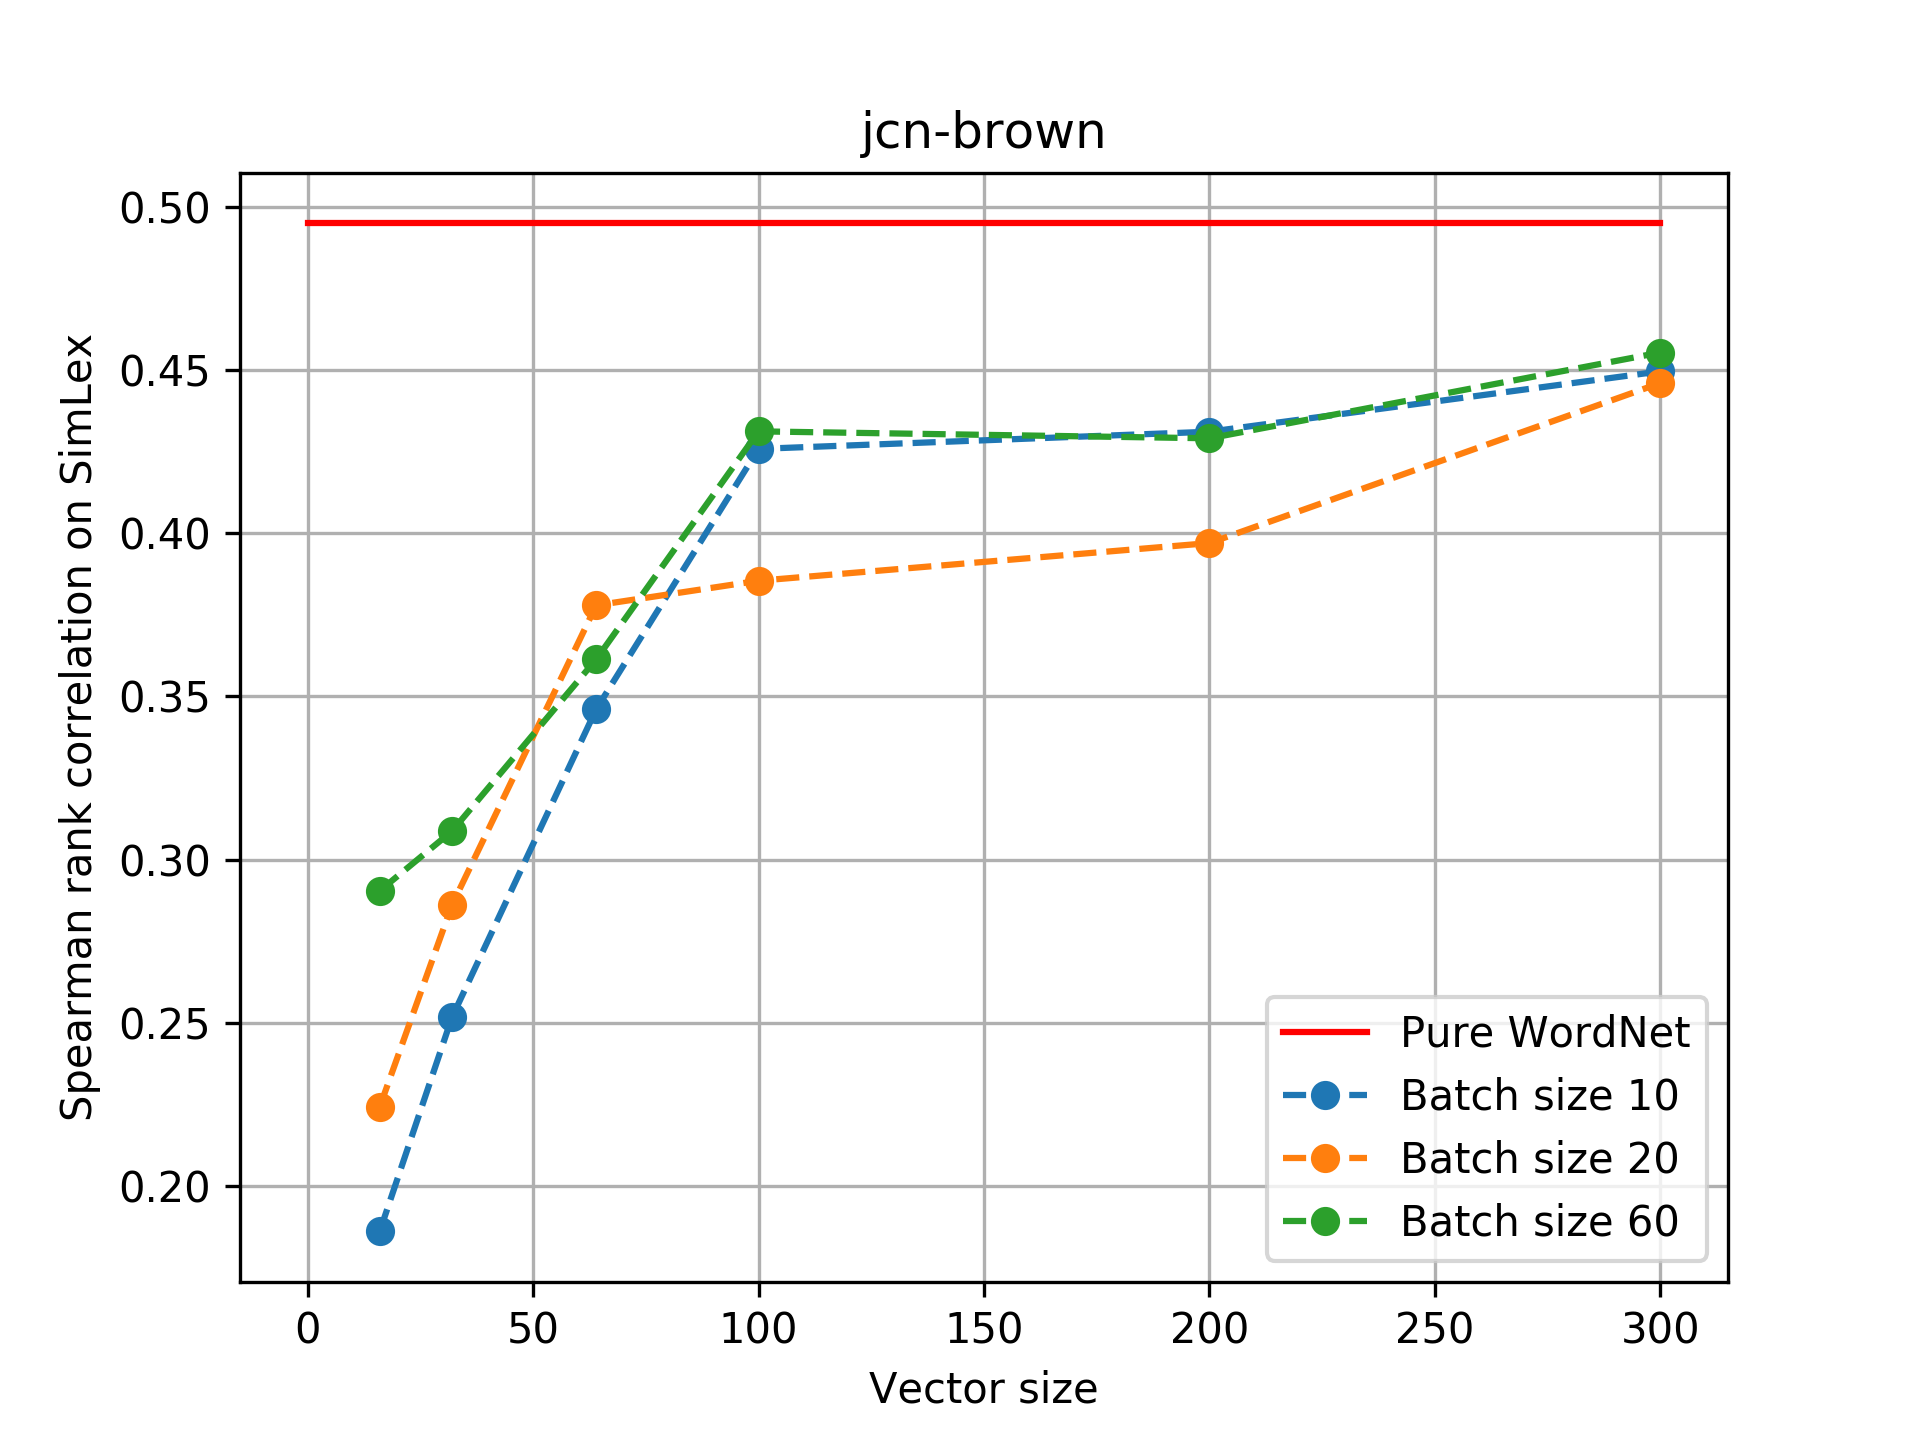
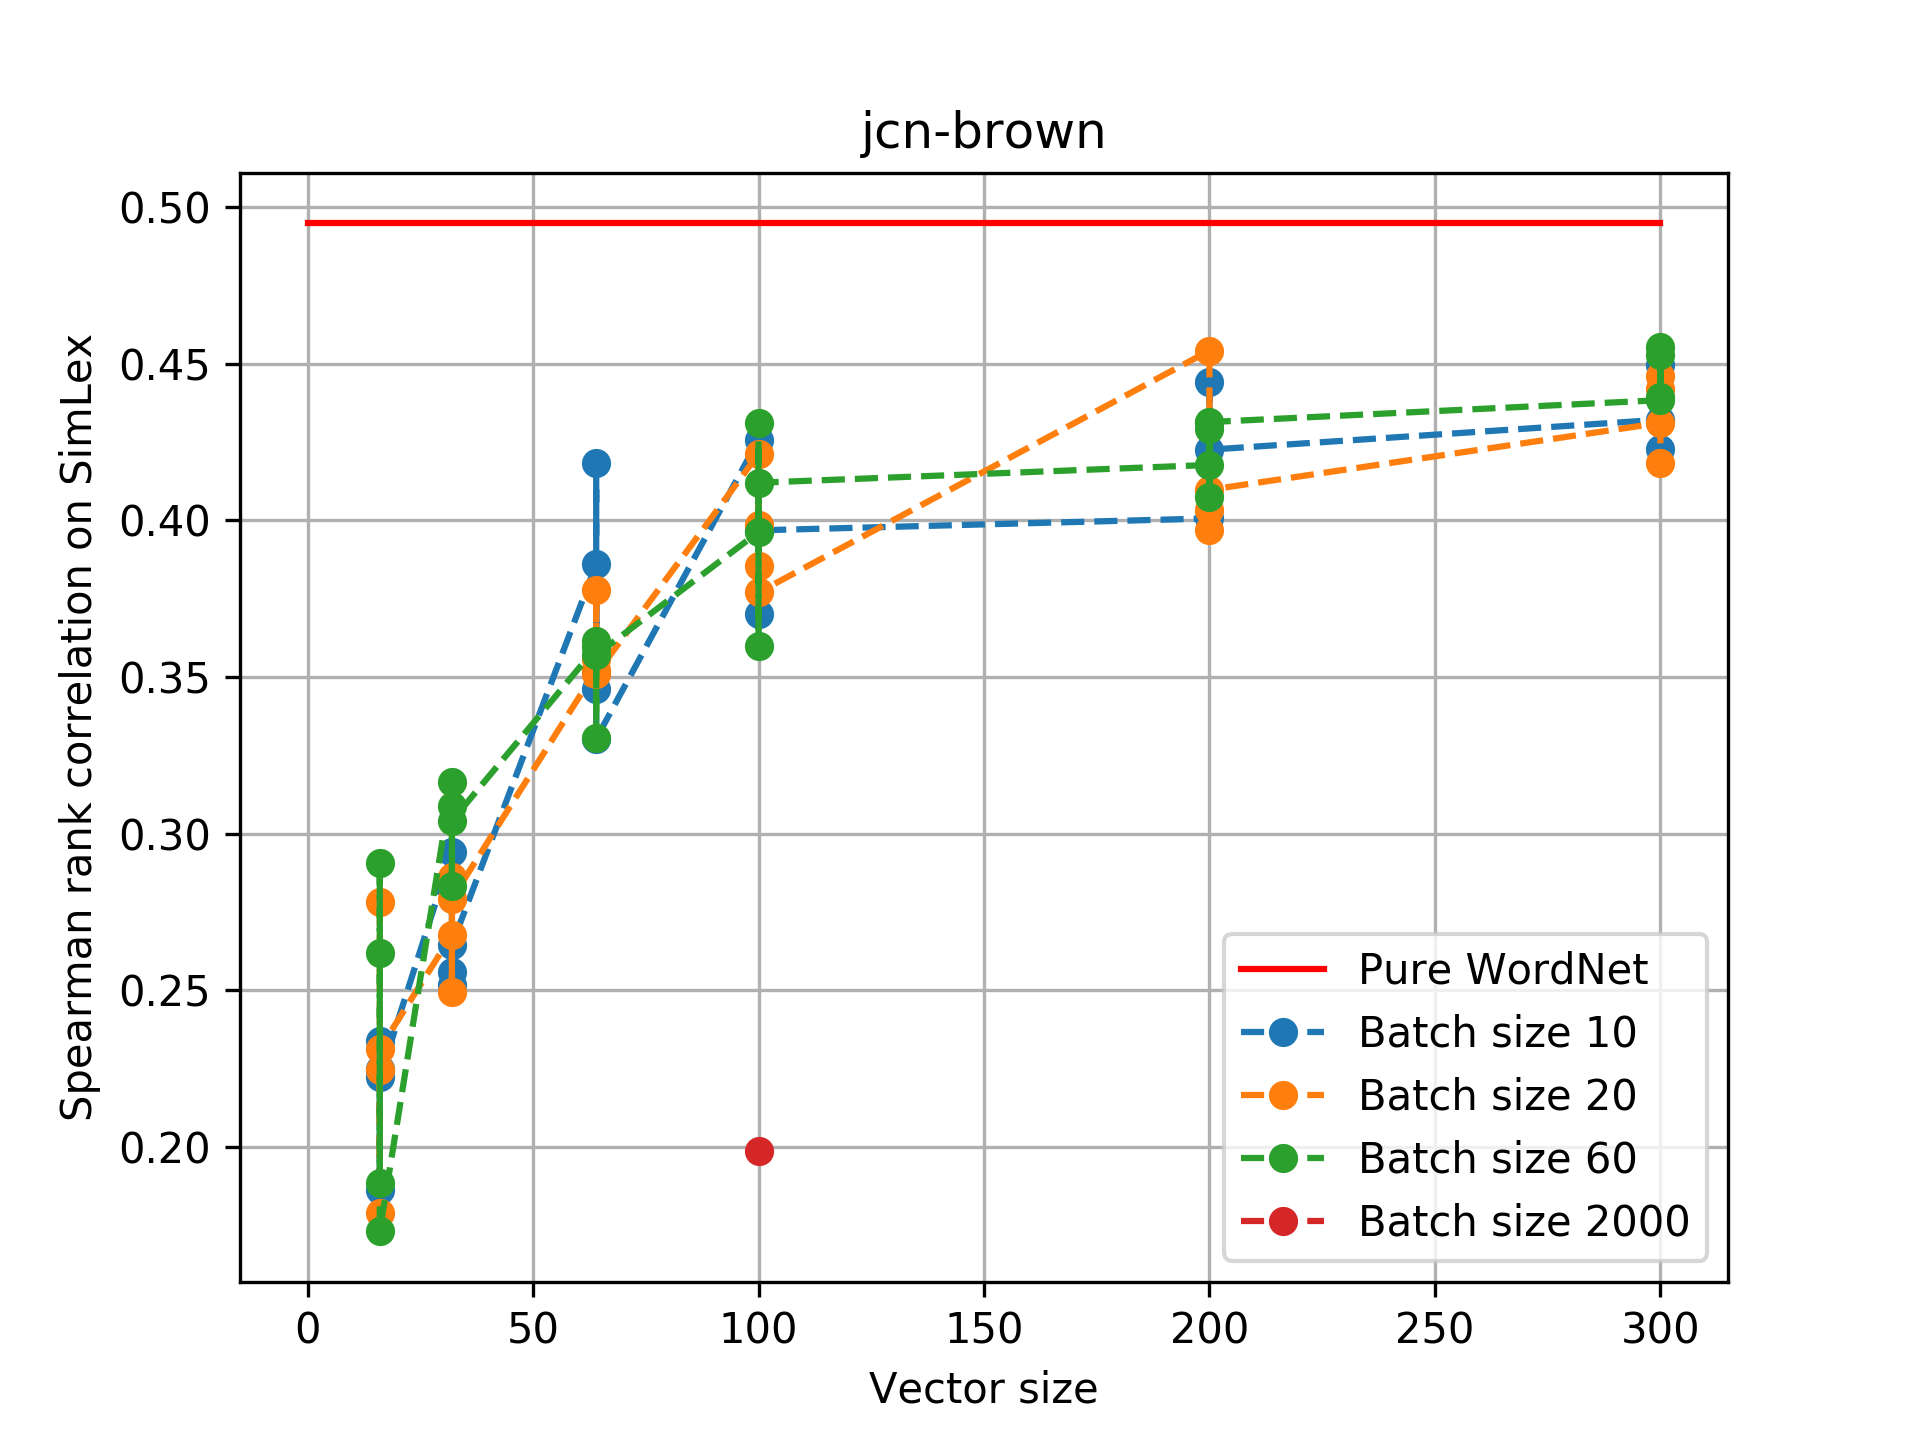
Updated plots with new scores

diff --git a/results/draw.py b/results/draw.py
@@ -17,8 +17,8 @@ for line in sys.stdin:
         continue
     res = line.strip().split('\t')
     (corpus, vsize, bsize, lrate, wordnet, human) = res
-    if lrate != '0.001':
-        continue
+    # if lrate != '0.001':
+    #    continue
     lrates.append(lrate)
     vsize = float(vsize)
     vectorsizes.append(vsize)
@@ -44,7 +44,7 @@ batchsizes = np.array(batchsizes)
 human_scores = np.array(human_scores)
 
 plt.figure()
-plt.plot((0, 300), (graph_score, graph_score), 'red', label='Pure WordNet')
+plt.plot((0, np.max(vectorsizes)), (graph_score, graph_score), 'red', label='Pure WordNet')
 for batch in sorted(diff_bsizes):
     x = vectorsizes[batchsizes == batch]
     y = human_scores[batchsizes == batch]
@@ -54,6 +54,6 @@ plt.ylabel('Spearman rank correlation on SimLex')
 plt.legend(loc='best')
 plt.grid(True)
 plt.title(corpus)
-#plt.show()
+# plt.show()
 plt.savefig(corpus+'.png', dpi=300)
 plt.close()
